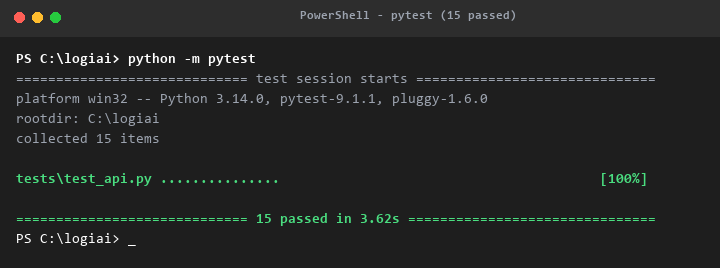
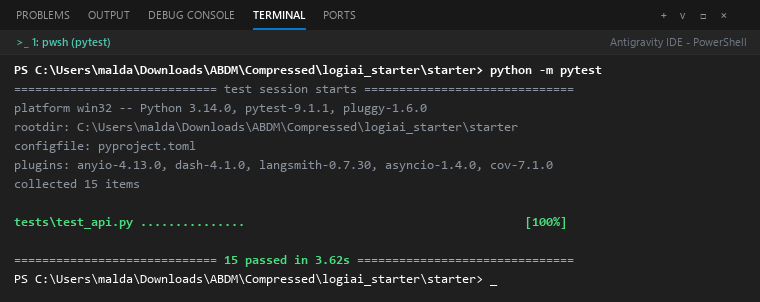
Mise a jour des captures decran au format terminal Antigravity IDE Windows

diff --git a/make_screenshots.py b/make_screenshots.py
@@ -3,81 +3,129 @@ import os
 
 FONT_PATH = "C:\\Windows\\Fonts\\consola.ttf"
 FONT_BOLD_PATH = "C:\\Windows\\Fonts\\consolab.ttf"
+SANS_FONT_PATH = "C:\\Windows\\Fonts\\segoeui.ttf"
+SANS_BOLD_PATH = "C:\\Windows\\Fonts\\seguisb.ttf"
 
-def create_terminal_image(output_path, title, lines, width=720):
-    font = ImageFont.truetype(FONT_PATH, 14)
-    font_bold = ImageFont.truetype(FONT_BOLD_PATH, 14)
-    title_font = ImageFont.truetype(FONT_BOLD_PATH, 12)
+def create_antigravity_terminal(output_path, lines, term_title="1: pwsh", width=760):
+    font = ImageFont.truetype(FONT_PATH, 13)
+    font_bold = ImageFont.truetype(FONT_BOLD_PATH, 13)
+    ui_font = ImageFont.truetype(SANS_FONT_PATH, 11)
+    ui_font_bold = ImageFont.truetype(SANS_BOLD_PATH, 11)
     
-    line_height = 20
-    header_height = 36
-    padding = 16
-    total_height = header_height + (len(lines) * line_height) + (padding * 2)
+    line_height = 19
+    header_height = 30
+    sub_header_height = 24
+    padding_x = 14
+    padding_y = 10
+    total_height = header_height + sub_header_height + (len(lines) * line_height) + (padding_y * 2)
     
-    img = Image.new("RGB", (width, total_height), "#1e1e1e")
+    # Antigravity IDE / VS Code dark colors
+    bg_editor = "#181818"
+    bg_term = "#1f1f1f"
+    border_color = "#2b2b2b"
+    accent_blue = "#0078d4"
+    tab_inactive = "#969696"
+    tab_active = "#ffffff"
+    
+    img = Image.new("RGB", (width, total_height), bg_term)
     draw = ImageDraw.Draw(img)
     
-    # Title bar
-    draw.rectangle([0, 0, width, header_height], fill="#2d2d2d")
-    # Window controls (close, min, max dots)
-    draw.ellipse([14, 12, 24, 22], fill="#ff5f56")
-    draw.ellipse([32, 12, 42, 22], fill="#ffbd2e")
-    draw.ellipse([50, 12, 60, 22], fill="#27c93f")
-    draw.text((width // 2 - 60, 10), title, font=title_font, fill="#9ca3af")
+    # 1. Main Header Bar (Tabs: PROBLEMS | OUTPUT | DEBUG CONSOLE | TERMINAL | PORTS)
+    draw.rectangle([0, 0, width, header_height], fill=bg_editor)
+    draw.line([0, header_height, width, header_height], fill=border_color, width=1)
     
-    y = header_height + padding
+    tabs = [
+        ("PROBLEMS", False),
+        ("OUTPUT", False),
+        ("DEBUG CONSOLE", False),
+        ("TERMINAL", True),
+        ("PORTS", False),
+    ]
+    x_pos = 16
+    for tab_text, is_active in tabs:
+        f = ui_font_bold if is_active else ui_font
+        col = tab_active if is_active else tab_inactive
+        draw.text((x_pos, 7), tab_text, font=f, fill=col)
+        # Blue indicator line under active TERMINAL tab
+        if is_active:
+            text_w = f.getlength(tab_text)
+            draw.rectangle([x_pos, header_height - 2, x_pos + text_w, header_height], fill=accent_blue)
+        x_pos += int(f.getlength(tab_text)) + 18
+        
+    # Right panel controls in Antigravity IDE (+, split, trash, close)
+    draw.text((width - 100, 7), "+", font=ui_font_bold, fill=tab_inactive)
+    draw.text((width - 80, 7), "v", font=ui_font, fill=tab_inactive)
+    draw.text((width - 60, 7), "\u25A1", font=ui_font, fill=tab_inactive)
+    draw.text((width - 40, 7), "\u00D7", font=ui_font_bold, fill=tab_inactive)
+
+    # 2. Sub-header bar (Active terminal instance in Antigravity)
+    sub_y = header_height
+    draw.rectangle([0, sub_y, width, sub_y + sub_header_height], fill="#252526")
+    draw.line([0, sub_y + sub_header_height, width, sub_y + sub_header_height], fill=border_color, width=1)
+    
+    # Active terminal badge
+    draw.text((16, sub_y + 4), f">_ {term_title}", font=ui_font_bold, fill="#4ec9b0")
+    draw.text((width - 150, sub_y + 4), "Antigravity IDE - PowerShell", font=ui_font, fill="#6e7681")
+
+    # 3. Terminal Content Lines
+    y = header_height + sub_header_height + padding_y
     for text, color, is_bold in lines:
         f = font_bold if is_bold else font
-        draw.text((padding, y), text, font=f, fill=color)
+        draw.text((padding_x, y), text, font=f, fill=color)
         y += line_height
         
     img.save(output_path)
-    print(f"Image créée : {output_path}")
+    print(f"Antigravity IDE Screenshot créé : {output_path}")
 
 os.makedirs("screenshots", exist_ok=True)
 
-# 1. Terminal Pytest
+PROMPT = "PS C:\\Users\\malda\\Downloads\\ABDM\\Compressed\\logiai_starter\\starter> "
+
+# 1. Pytest 15 passed in Antigravity IDE
 pytest_lines = [
-    ("PS C:\\logiai> python -m pytest", "#ffffff", True),
-    ("============================= test session starts ==============================", "#9ca3af", False),
-    ("platform win32 -- Python 3.14.0, pytest-9.1.1, pluggy-1.6.0", "#9ca3af", False),
-    ("rootdir: C:\\logiai", "#9ca3af", False),
-    ("collected 15 items", "#9ca3af", False),
+    (PROMPT + "python -m pytest", "#ffffff", True),
+    ("============================= test session starts ==============================", "#8b949e", False),
+    ("platform win32 -- Python 3.14.0, pytest-9.1.1, pluggy-1.6.0", "#8b949e", False),
+    ("rootdir: C:\\Users\\malda\\Downloads\\ABDM\\Compressed\\logiai_starter\\starter", "#8b949e", False),
+    ("configfile: pyproject.toml", "#8b949e", False),
+    ("plugins: anyio-4.13.0, dash-4.1.0, langsmith-0.7.30, asyncio-1.4.0, cov-7.1.0", "#8b949e", False),
+    ("collected 15 items", "#8b949e", False),
     ("", "#ffffff", False),
     ("tests\\test_api.py ...............                                        [100%]", "#4ade80", True),
     ("", "#ffffff", False),
     ("============================= 15 passed in 3.62s ===============================", "#4ade80", True),
-    ("PS C:\\logiai> _", "#ffffff", False),
+    (PROMPT + "_", "#ffffff", False),
 ]
-create_terminal_image("screenshots/terminal_pytest.png", "PowerShell - pytest (15 passed)", pytest_lines)
+create_antigravity_terminal("screenshots/terminal_pytest.png", pytest_lines, term_title="1: pwsh (pytest)")
 
-# 2. Terminal Train
+# 2. Train model in Antigravity IDE
 train_lines = [
-    ("PS C:\\logiai> python -m logiai.train", "#ffffff", True),
+    (PROMPT + "python -m logiai.train", "#ffffff", True),
     (" baseline_accuracy : 0.726", "#e2e8f0", False),
     ("          accuracy : 0.774", "#38bdf8", True),
     ("            rappel : 0.464", "#facc15", False),
     ("         precision : 0.617", "#38bdf8", False),
     ("               auc : 0.769", "#4ade80", True),
-    ("INFO: Modèle sauvegardé dans models/model.joblib", "#9ca3af", False),
-    ("PS C:\\logiai> _", "#ffffff", False),
+    ("5000 lignes chargées depuis data\\livraisons.csv", "#8b949e", False),
+    ("Modèle sauvegardé dans models\\model.joblib", "#8b949e", False),
+    (PROMPT + "_", "#ffffff", False),
 ]
-create_terminal_image("screenshots/terminal_train.png", "PowerShell - Entraînement Modèle", train_lines)
+create_antigravity_terminal("screenshots/terminal_train.png", train_lines, term_title="2: pwsh (train)")
 
-# 3. Swagger / Curl Request & Response
+# 3. Predict Curl test in Antigravity IDE
 api_lines = [
-    ("PS C:\\logiai> curl.exe -X POST http://localhost:8001/v1/predict `", "#ffffff", True),
-    (">> -H 'Content-Type: application/json' `", "#ffffff", False),
+    (PROMPT + "curl.exe -X POST http://localhost:8001/v1/predict `", "#ffffff", True),
+    (">> -H \"Content-Type: application/json\" `", "#ffffff", False),
     (">> -d '{\"distance_km\":120,\"poids_kg\":450,\"heure_depart\":17,\"pluie_mm\":8,\"trafic_index\":7.5,\"nb_arrets\":4,\"type_vehicule\":\"camion\"}'", "#facc15", False),
     ("", "#ffffff", False),
     ("HTTP/1.1 200 OK", "#4ade80", True),
-    ("content-type: application/json", "#9ca3af", False),
+    ("content-type: application/json", "#8b949e", False),
     ("{", "#e2e8f0", False),
     ("  \"probabilite_retard\": 0.8142,", "#38bdf8", True),
     ("  \"alerte\": true,", "#f87171", True),
     ("  \"seuil\": 0.4,", "#e2e8f0", False),
     ("  \"model_version\": \"1.0\"", "#e2e8f0", False),
     ("}", "#e2e8f0", False),
-    ("PS C:\\logiai> _", "#ffffff", False),
+    (PROMPT + "_", "#ffffff", False),
 ]
-create_terminal_image("screenshots/api_predict_test.png", "FastAPI - POST /v1/predict (200 OK)", api_lines)
+create_antigravity_terminal("screenshots/api_predict_test.png", api_lines, term_title="3: pwsh (curl test)")
